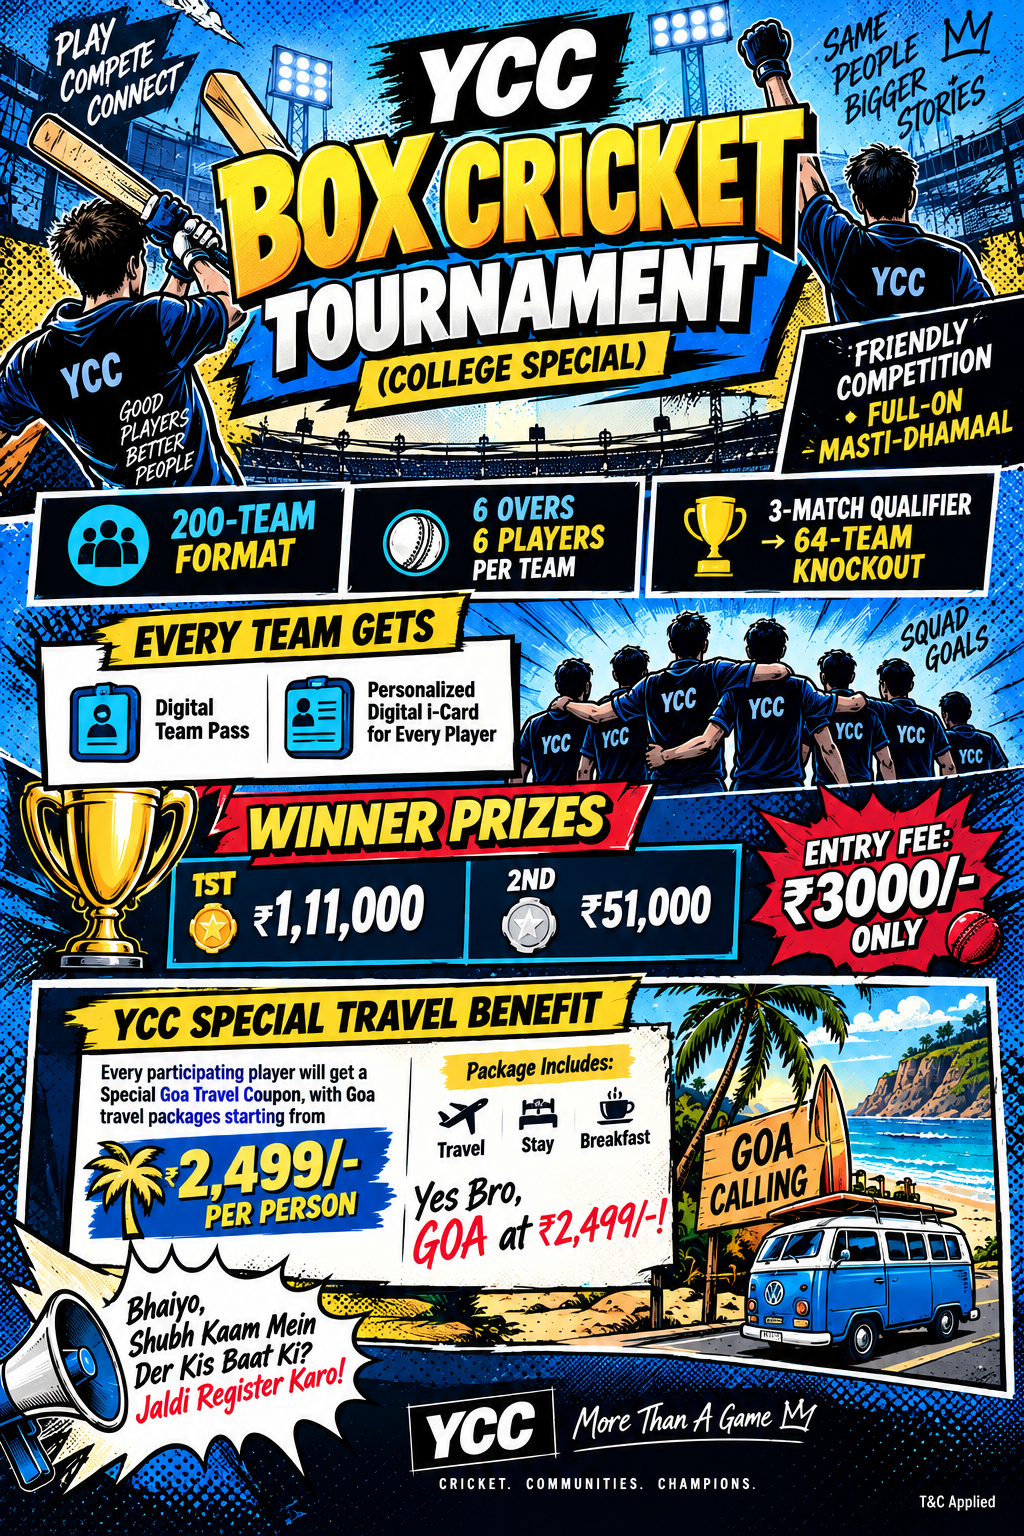
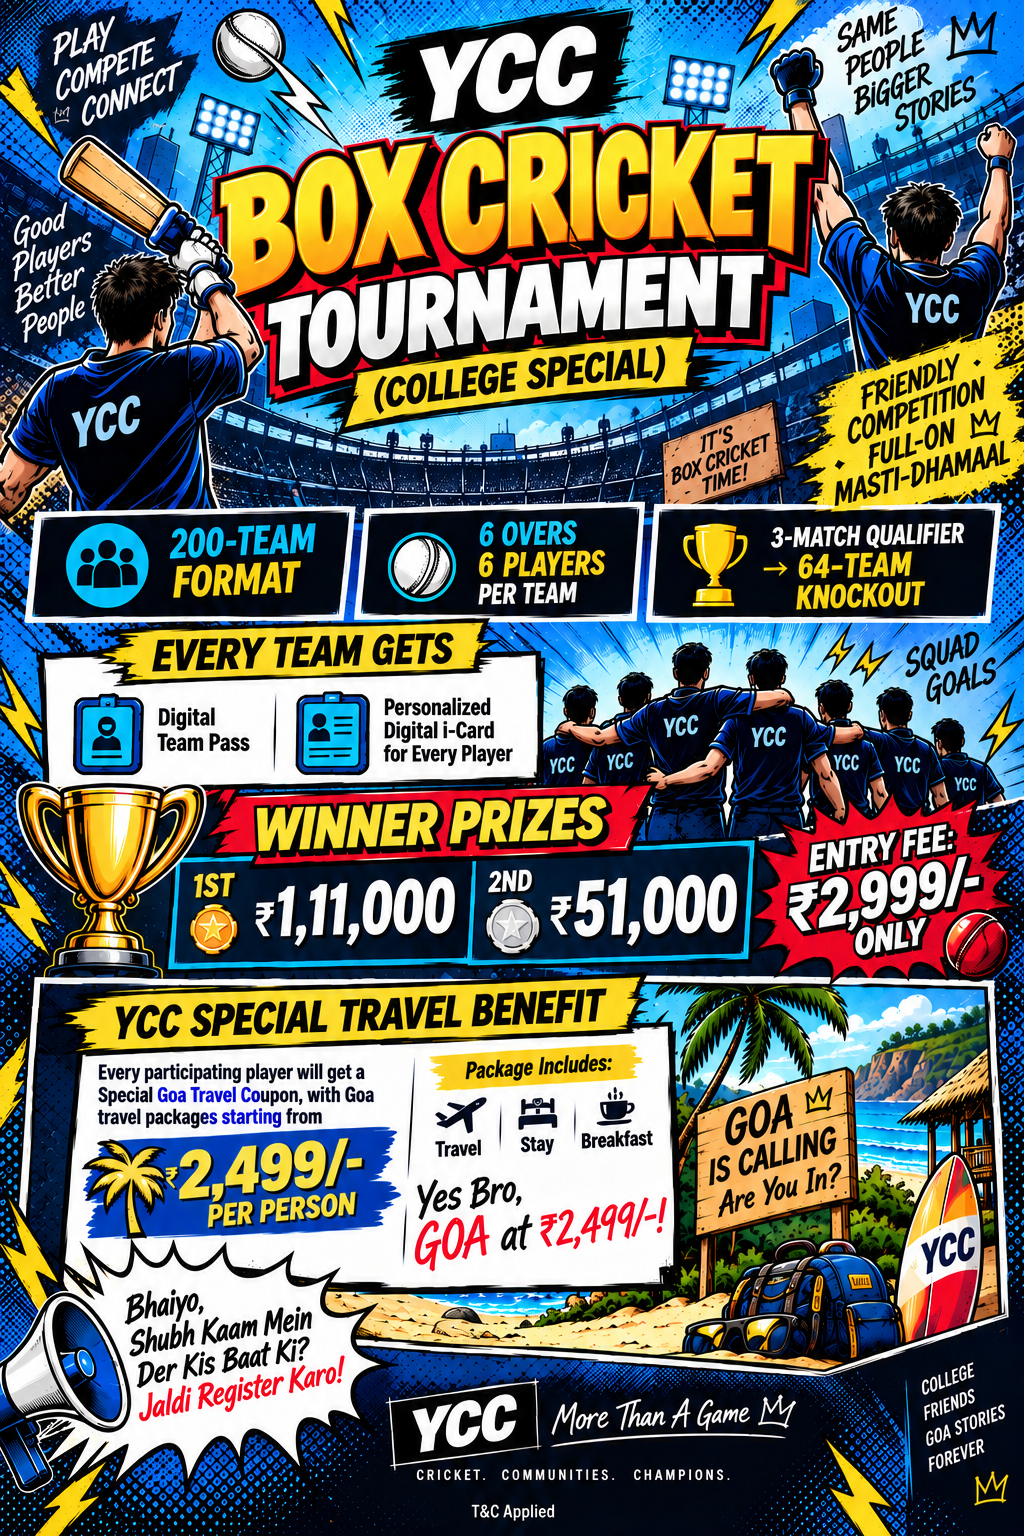
Update Box Cricket poster and How to Register step 3 copy
- Swapped public/box-cricket/poster.png for the user's latest
  revision (corrected entry fee, updated artwork) — same file
  path, used by the event page, the Level Up cross-promo card,
  and the OG/social-share metadata, so all three pick it up.
- How to Register step 3: "Entry fee payable in cash at the
  venue" -> "You have to pay entry fee in cash, the place will be
  decided by the YCC Team" — venue is no longer fixed.

Claude-Session: https://claude.ai/code/session_01GyWhy75g1ezGdTAMn5TX1a

diff --git a/src/app/(public)/events/[slug]/page.tsx b/src/app/(public)/events/[slug]/page.tsx
@@ -262,7 +262,8 @@ export default async function EventDetailPage({
                               <span className="font-semibold text-slate-900">
                                 Get instant confirmation.
                               </span>{" "}
-                              Entry fee payable in cash at the venue — your
+                              You have to pay entry fee in cash, the place
+                              will be decided by the YCC Team — your
                               squad&apos;s invitation letter and team code download
                               automatically the moment you submit.
                             </p>
